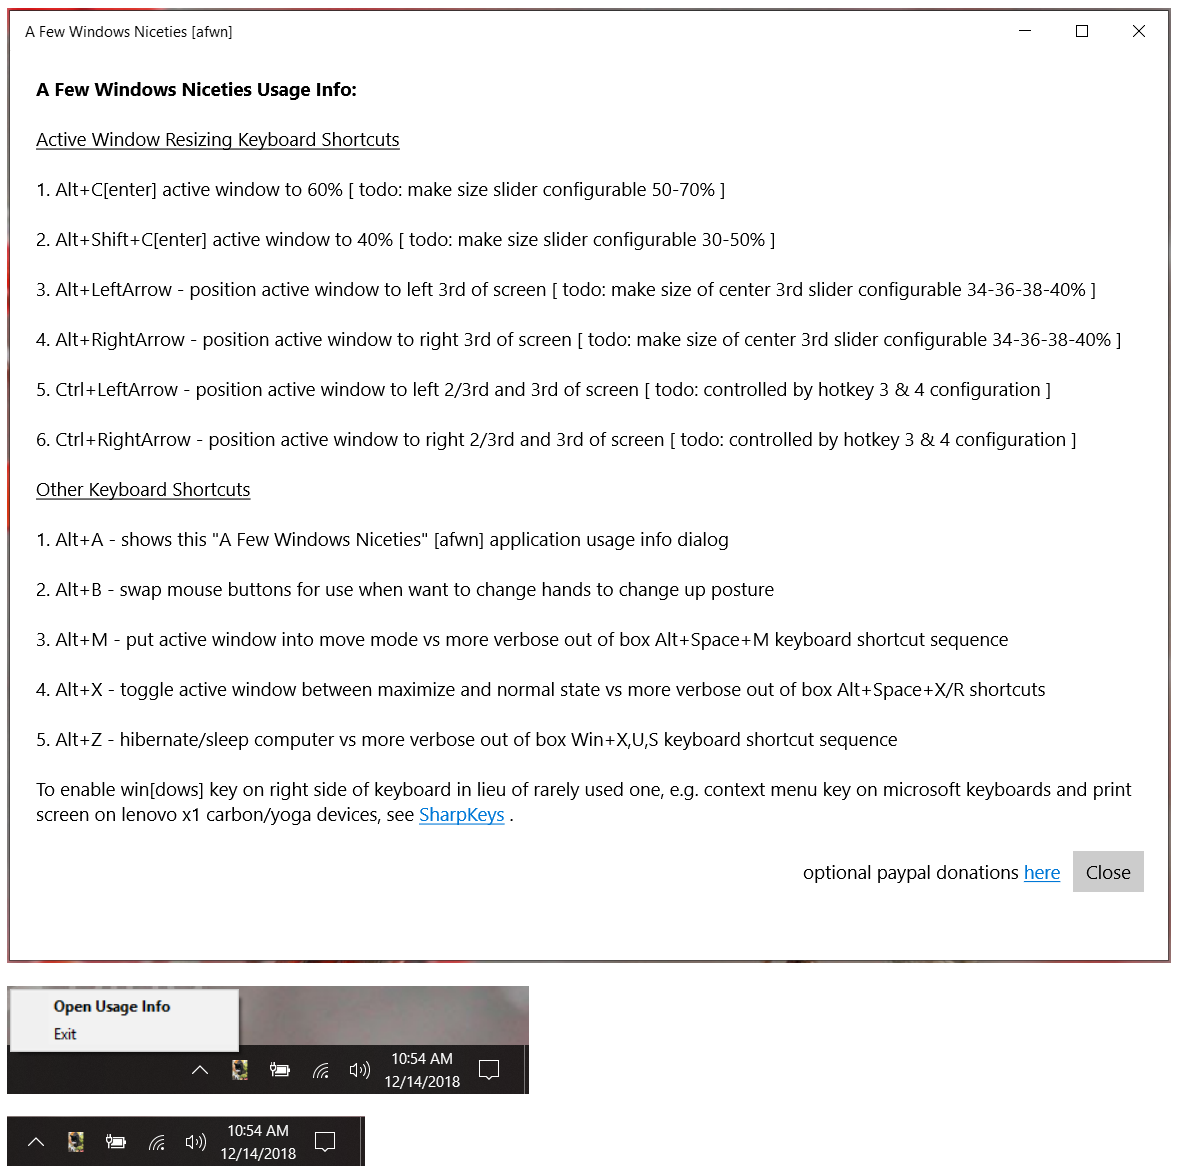
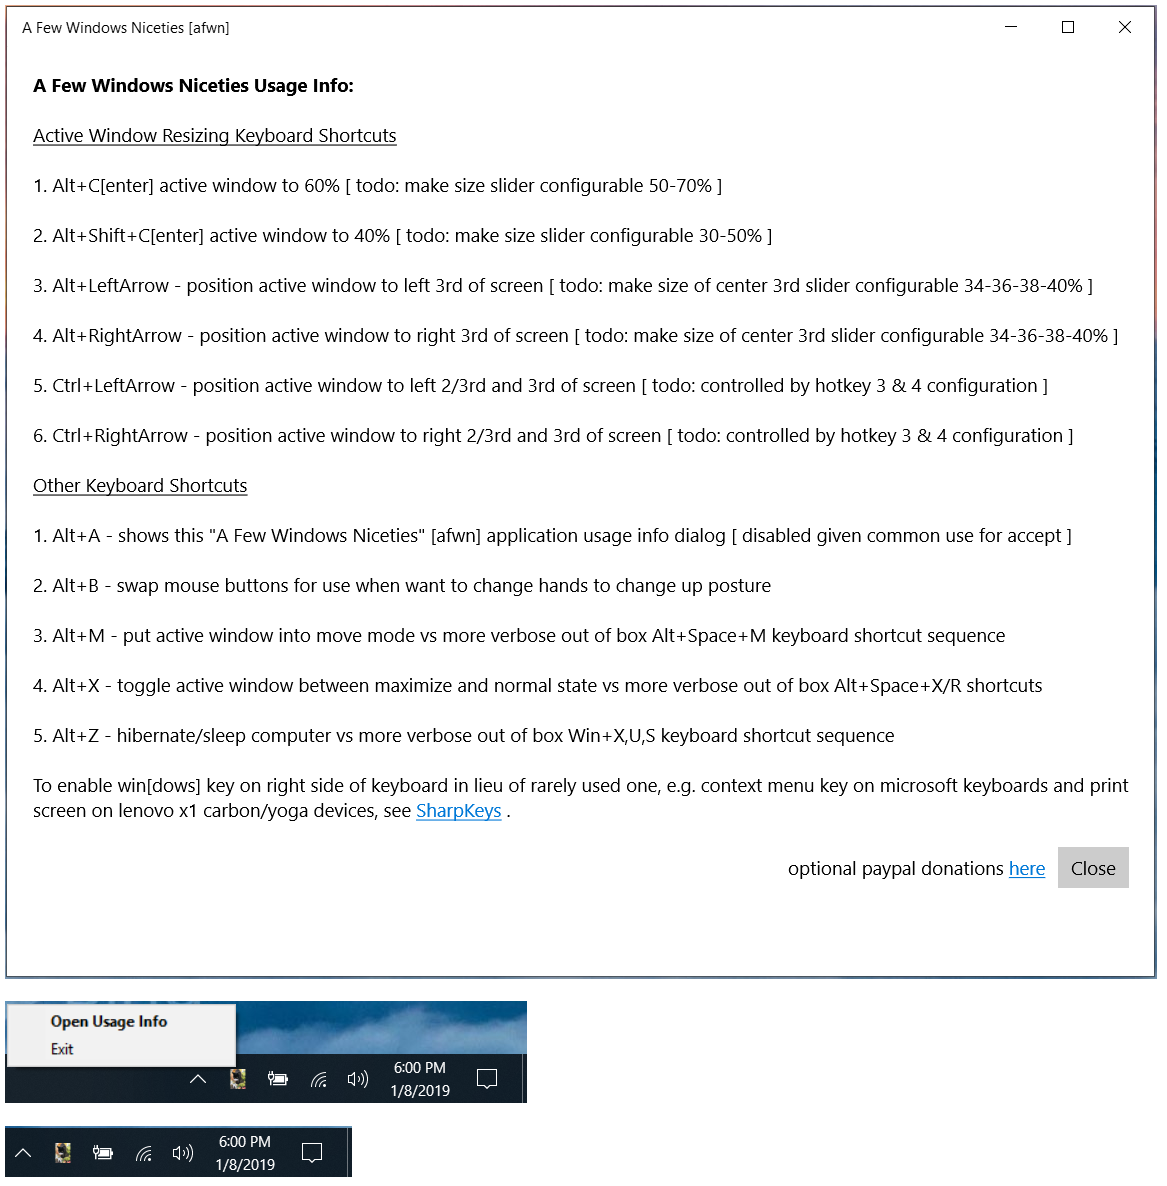
updates associated with 1.1.8.0 release where alt+a show usage info shortcut was disabled given overlap with common use for accept

Changed region(s): [[0.0, 0.0, 1.0, 1.0]]

diff --git a/SystrayExtension/MainPage.xaml b/SystrayExtension/MainPage.xaml
@@ -42,7 +42,7 @@
             <TextBlock>5. Ctrl+LeftArrow - position active window to left 2/3rd and 3rd of screen [ todo: controlled by hotkey 3 &amp; 4 configuration ]</TextBlock>
             <TextBlock>6. Ctrl+RightArrow - position active window to right 2/3rd and 3rd of screen [ todo: controlled by hotkey 3 &amp; 4 configuration ]</TextBlock>
             <TextBlock><Underline>Other Keyboard Shortcuts</Underline></TextBlock>
-            <TextBlock>1. Alt+A - shows this "A Few Windows Niceties" [afwn] application usage info dialog</TextBlock>
+            <TextBlock>1. Alt+A - shows this "A Few Windows Niceties" [afwn] application usage info dialog [ disabled given common use for accept ]</TextBlock>
             <TextBlock>2. Alt+B - swap mouse buttons for use when want to change hands to change up posture</TextBlock>
             <TextBlock>3. Alt+M - put active window into move mode vs more verbose out of box Alt+Space+M keyboard shortcut sequence</TextBlock>
             <TextBlock>4. Alt+X - toggle active window between maximize and normal state vs more verbose out of box Alt+Space+X/R shortcuts</TextBlock>

diff --git a/SystrayComponent/SystrayApplicationContext.cs b/SystrayComponent/SystrayApplicationContext.cs
@@ -95,7 +95,8 @@ namespace SystrayComponent
             //rhw.RegisterCombo(1006, Modifiers.Alt | Modifiers.Shift, Keys.Right); // Alt+Shift+R[ight Arrow] = place active window to right 2/3rd or 3rd
             rhw.RegisterCombo(1005, Modifiers.Control, Keys.Left); // Ctrl+L[eft Arrow] = place active window to left 2/3rd or 3rd which stomps on existing ide move left shortcut
             rhw.RegisterCombo(1006, Modifiers.Control, Keys.Right); // Ctrl+R[ight Arrow] = place active window to right 2/3rd or 3rd which stomps on existing ide move left shortcut
-            rhw.RegisterCombo(1007, Modifiers.Alt, Keys.A); // Alt+A = show a few windows niceties usage info [ and settings customization ] window
+// 28dec18 disabled given common use for accept
+            //rhw.RegisterCombo(1007, Modifiers.Alt, Keys.A); // Alt+A = show a few windows niceties usage info [ and settings customization ] window
             rhw.RegisterCombo(1008, Modifiers.Alt, Keys.B); // Alt+B = swap mouse buttons
             rhw.RegisterCombo(1009, Modifiers.Alt, Keys.M); // Alt+M = put active window into move mode vs oob Alt+Space+M sequence
             rhw.RegisterCombo(1010, Modifiers.Alt, Keys.X); // Alt+X = toggle active window between maximum and normal state vs oob Alt+Space+X/R sequence which stomps on existing edge settings and more shortcut

diff --git a/SystrayComponent/Form1.Designer.cs b/SystrayComponent/Form1.Designer.cs
@@ -168,10 +168,10 @@ namespace SystrayComponent
             this.label10.Location = new System.Drawing.Point(35, 302);
             this.label10.Margin = new System.Windows.Forms.Padding(2, 0, 2, 0);
             this.label10.Name = "label10";
-            this.label10.Size = new System.Drawing.Size(526, 17);
+            this.label10.Size = new System.Drawing.Size(788, 17);
             this.label10.TabIndex = 9;
             this.label10.Text = "1. Alt+A - shows this \"A Few Windows Niceties\" [afwn] application usage info dial" +
-    "og";
+    "og [ disabled given common use for accept ]";
             // 
             // label11
             // 
